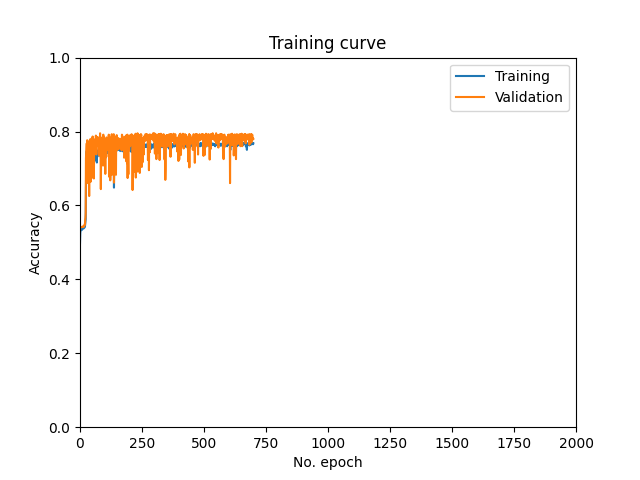
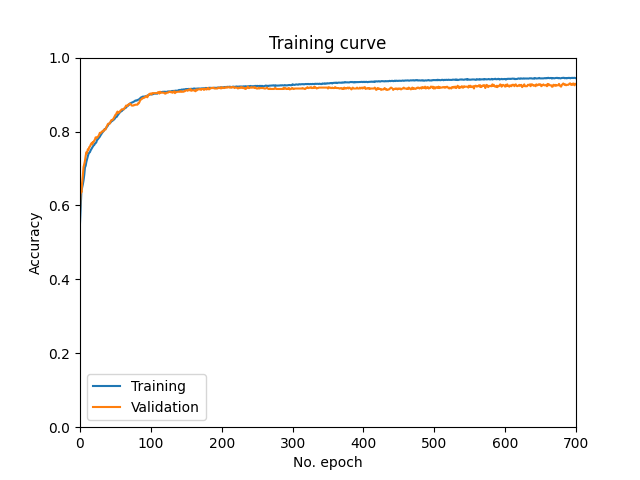
normalized features

diff --git a/tp3/pycharm_project/main.py b/tp3/pycharm_project/main.py
@@ -1,5 +1,5 @@
 import pandas as pd
-
+import numpy as np
 from keras.models import Sequential
 from keras.layers import Dense, Activation
 from keras.optimizers import SGD
@@ -20,11 +20,28 @@ data_train = data_train.drop(0, axis=1)
 last_column = data_train.columns[-1]
 Y = data_train[last_column]
 X = data_train.drop(last_column, axis=1)
-# # Loading it into a numpy array
+numberFeature = X.shape[1]
+#normalisation of features
+print(X.shape)
+mean = X.mean()
+var = X.var()
+for i in range(1,numberFeature+1):
+
+    if(var[i] !=0):
+        X[i] = (X[i]-mean[i])/var[i]
+
+
+
+# isnull=X.isnull().sum()
+# for i in range(1,len(isnull)+1):
+#     if(isnull[i]!=0):
+#         print(i, isnull[i],var[i])
+
+# Loading it into a numpy array
 X = X.to_numpy()
 Y = Y.to_numpy()
 Y = Y == "phishing"
-numberFeature = X.shape[1]
+assert not np.any(np.isnan(X))
 # Separating the features and the true value(x,y)
 data_test = data_test.drop(0, axis=1)
 X_test = data_test
@@ -45,7 +62,7 @@ model = Sequential(name="DNN")
 model.add(Dense(5, input_dim=int(numberFeature), activation='relu', name='dense_1'))
 model.add(Dense(6, input_dim=5, activation='relu', name='dense_2'))
 model.add(Dense(8, input_dim=6, activation='relu', name='dense_3'))
-model.add(Dense(5, input_dim=10, activation='relu', name='dense_4'))
+model.add(Dense(5, input_dim=8, activation='relu', name='dense_4'))
 model.add(Dense(1, input_dim=5, activation='sigmoid', name='dense_5'))
 
 opt = SGD(learning_rate=0.001)  # Stochastic Gradient descent
@@ -61,7 +78,7 @@ plt.plot(history.history['val_loss'], label='Validation Loss')
 plt.title('Training curve')
 plt.ylabel('Loss')
 plt.xlabel('No. epoch')
-plt.axis([0, 2000, 0, 1])
+plt.axis([0, 700, 0, 1])
 plt.legend()
 plt.savefig("loss")
 plt.show()
@@ -71,7 +88,7 @@ plt.plot(history.history['val_accuracy'], label='Validation')
 plt.title('Training curve')
 plt.ylabel('Accuracy')
 plt.xlabel('No. epoch')
-plt.axis([0, 2000, 0, 1])
+plt.axis([0, 700, 0, 1])
 plt.legend()
 plt.savefig("accuracy")
 plt.show()
